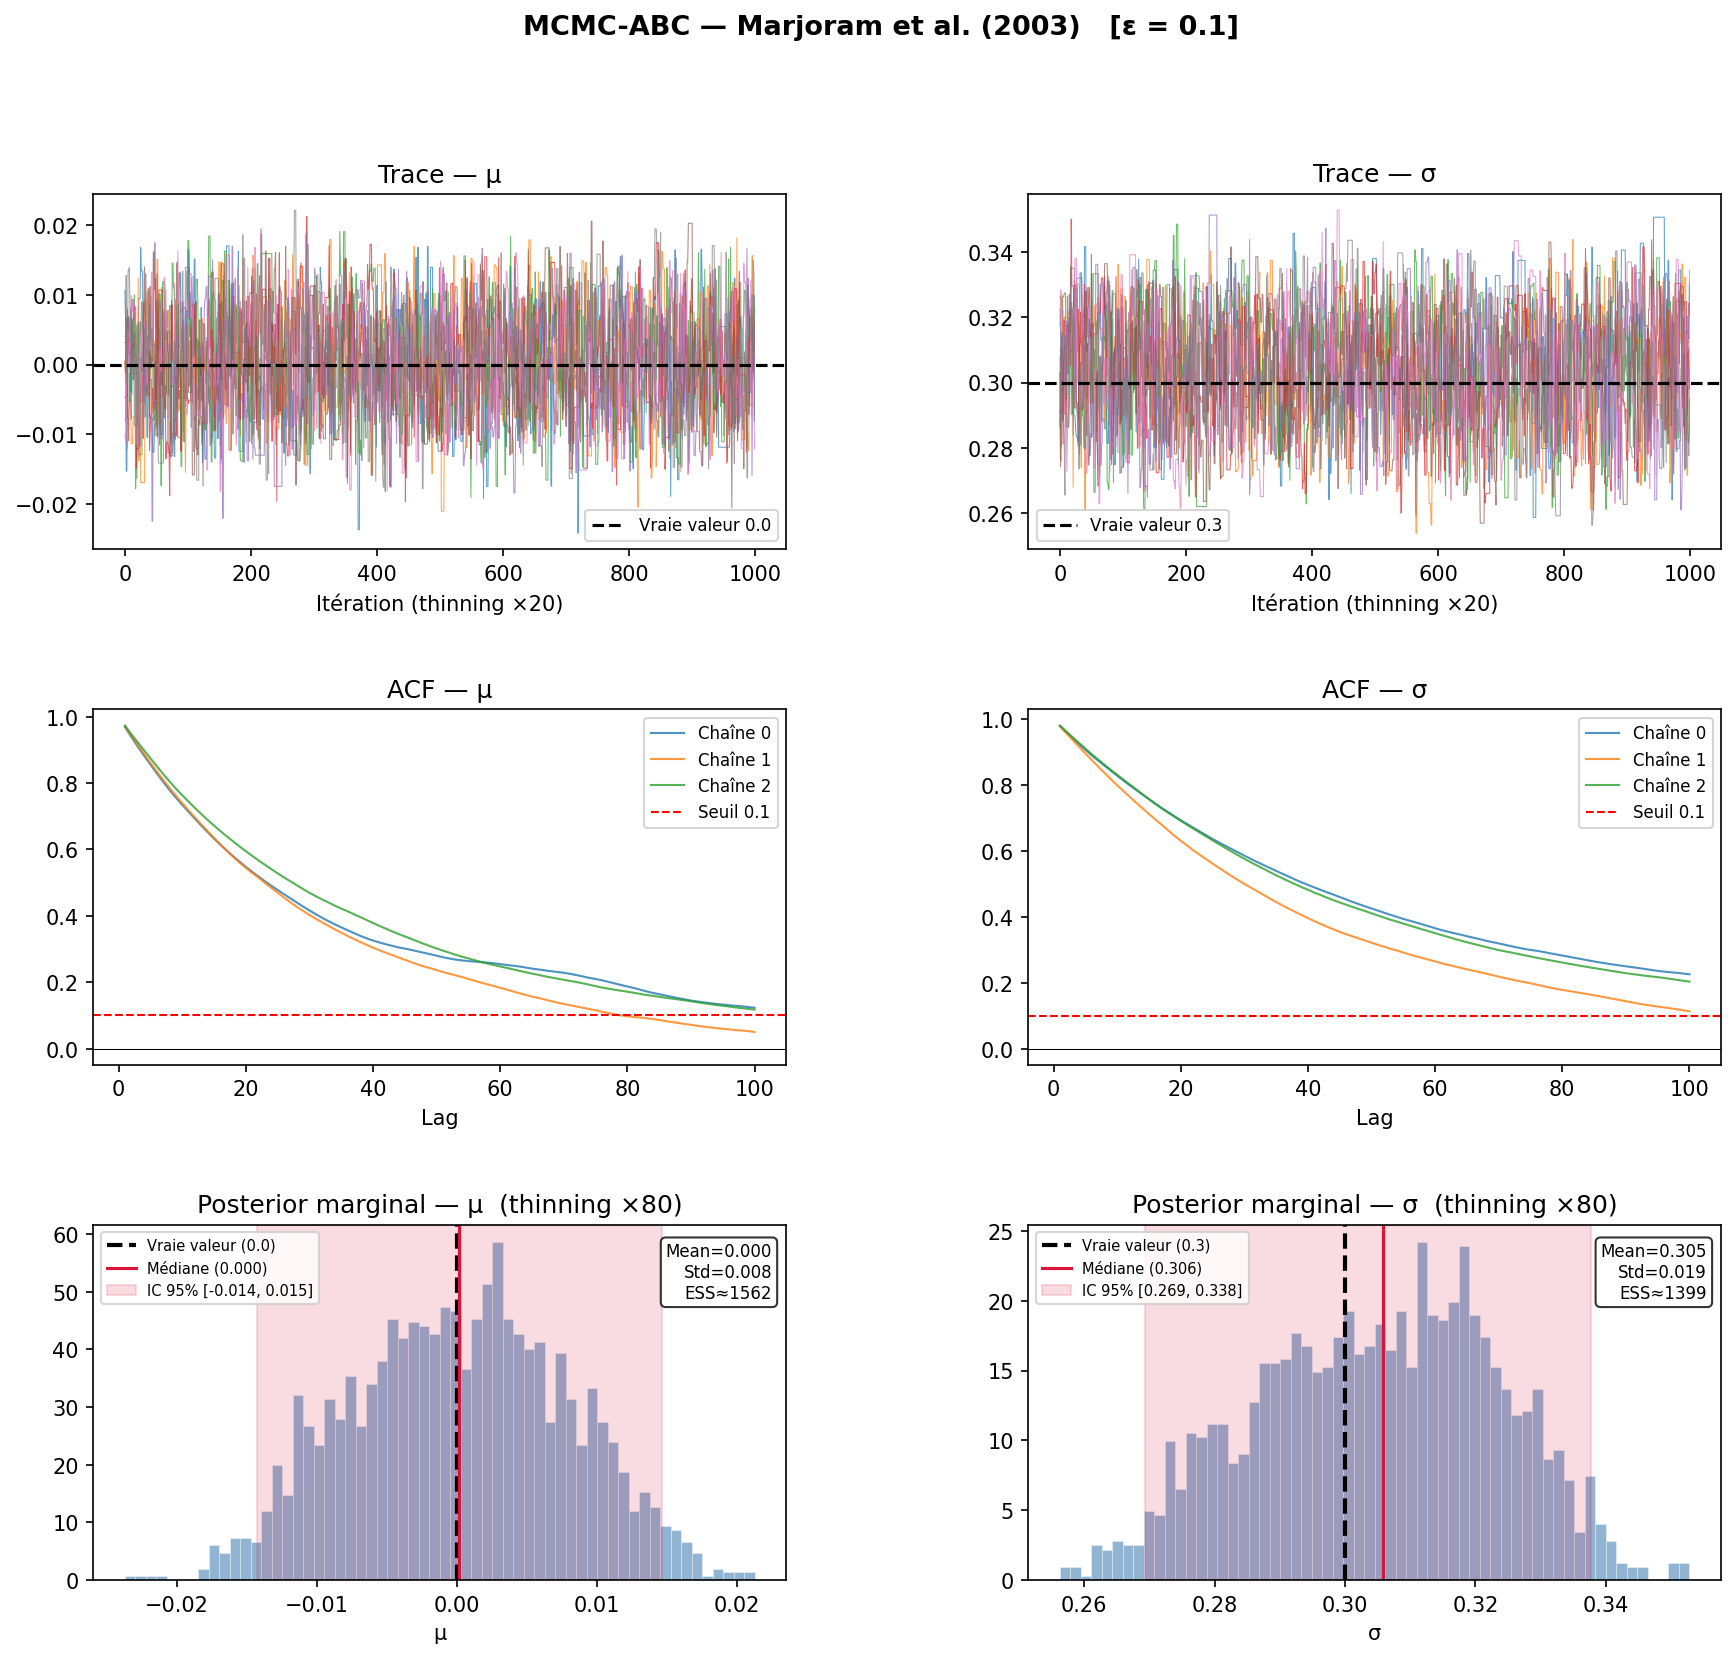
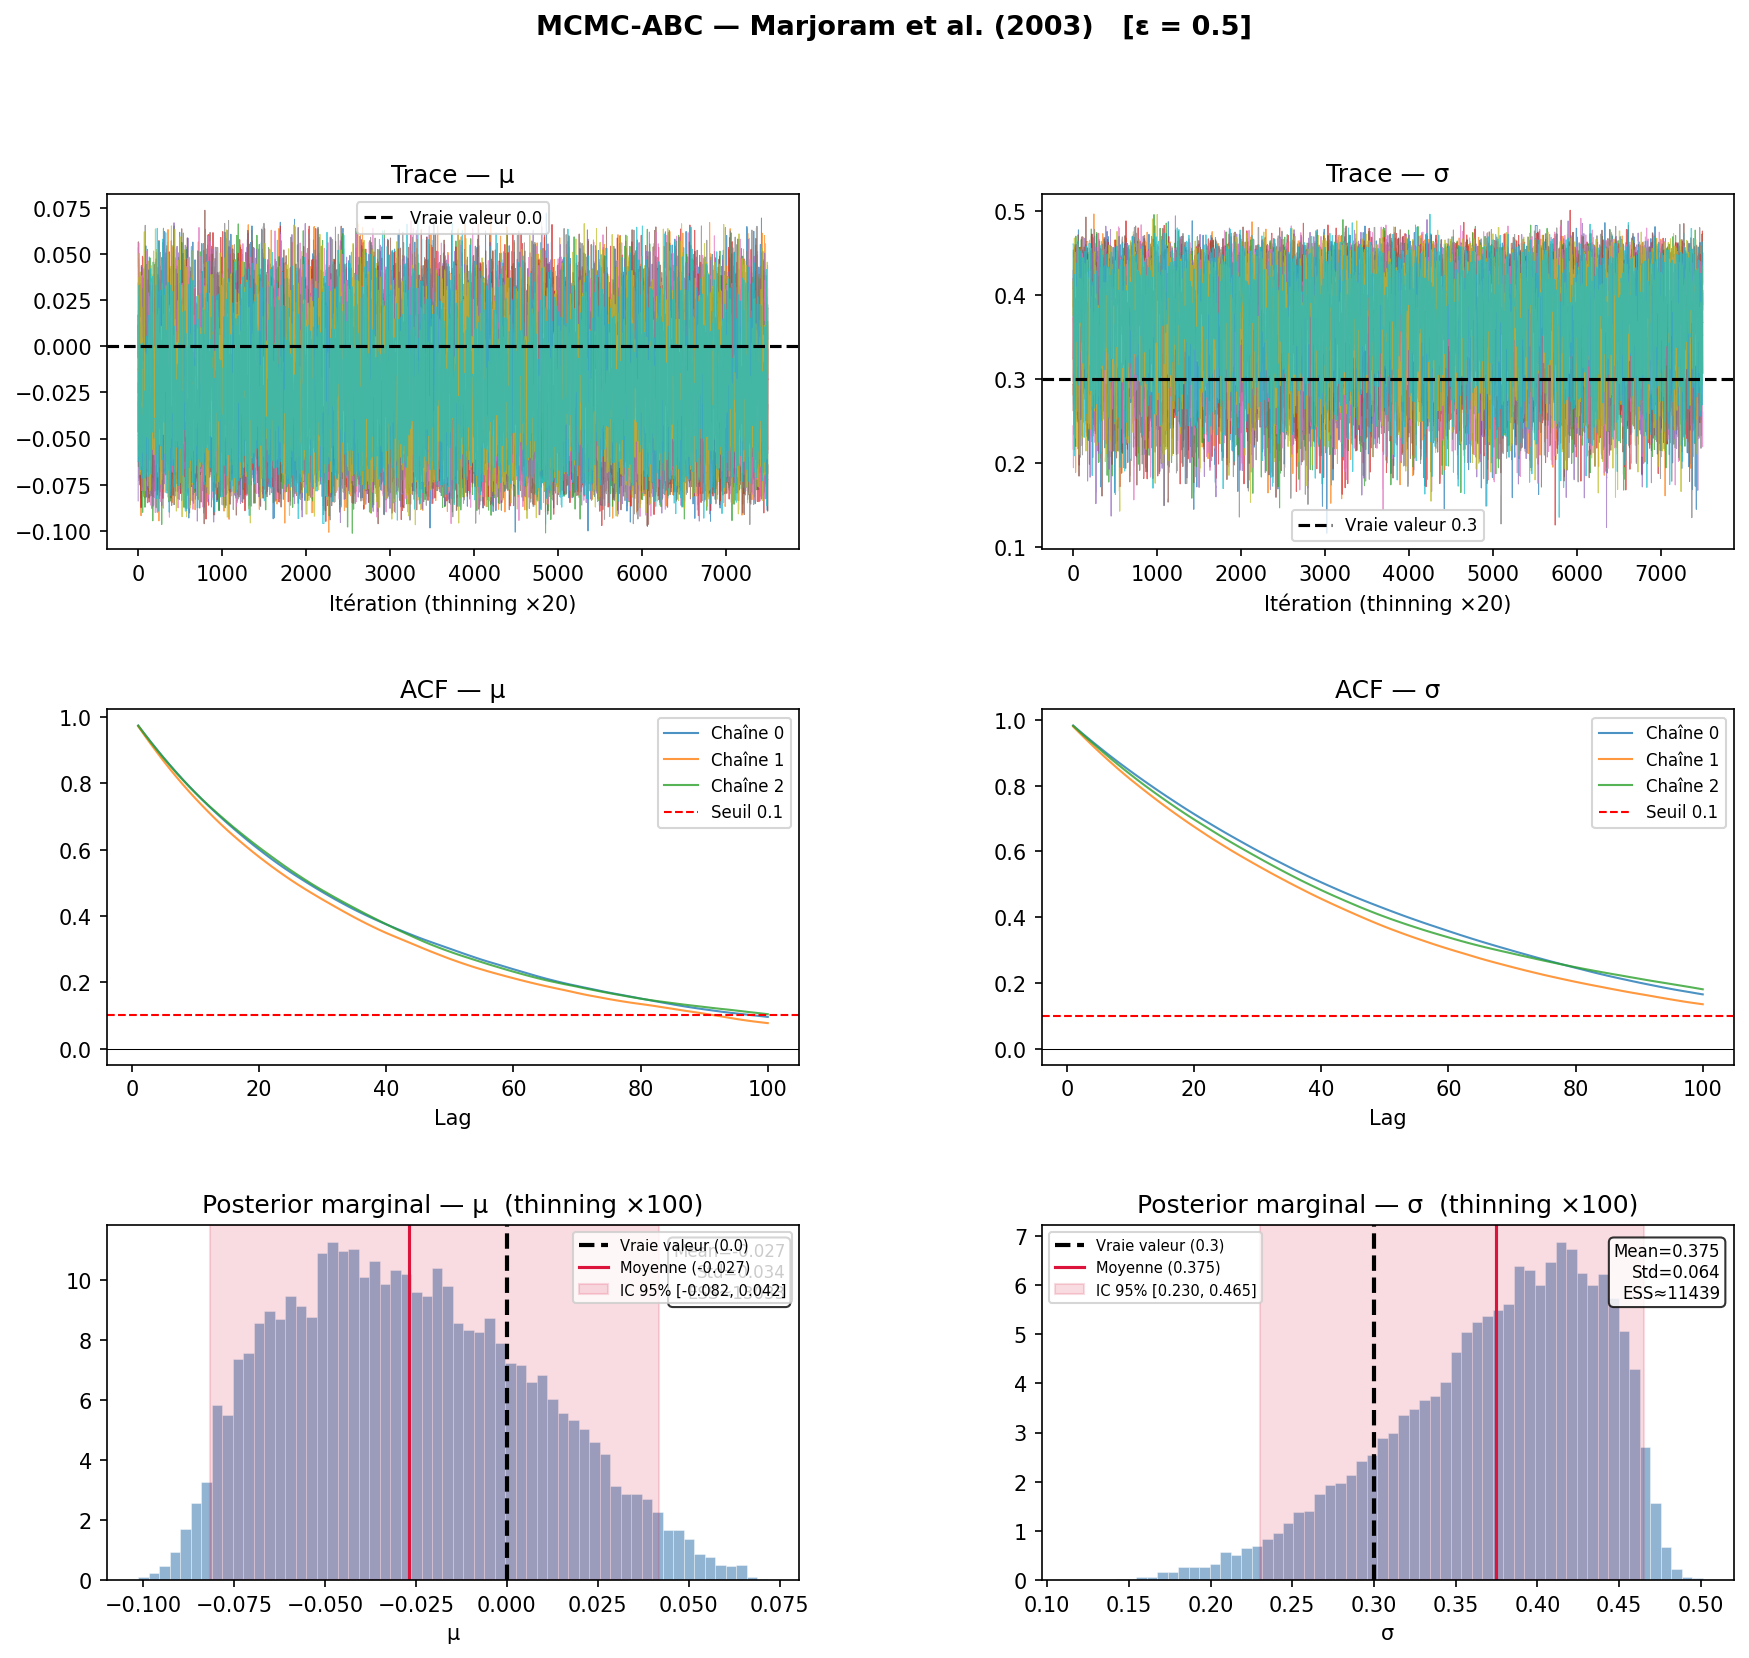
New Params MCMC-ABC

diff --git a/MCMC_ABCv2.py b/MCMC_ABCv2.py
@@ -21,13 +21,13 @@ S_PRIOR = 1.0
 T_PRIOR = 1.0
 
 # Chaîne MCMC
-N_CHAINS  = 4       # nombre de chaînes parallèles (vmappées)
-N_BURN    = 3_000   # longueur du burn-in
-N_ITER    = 15_000  # longueur post-burn-in
-K_THIN    = 80       # facteur de thinning pour les diagnostics
+N_CHAINS  = 5       # nombre de chaînes parallèles (vmappées)
+N_BURN    = 20_000   # longueur du burn-in
+N_ITER    = 100_000  # longueur post-burn-in
+K_THIN    = 100       # facteur de thinning
 
-EPSILON   = 1     # tolérance ABC (à calibrer via pilot run)
-DELTA      = 0.25   # std de la marche aléatoire sur mu et log(sigma)
+EPSILON   = 0.6     # tolérance ABC (à calibrer via pilot run)
+DELTA      = 0.3   # std de la marche aléatoire sur mu et log(sigma)
 
 # ─── 0. Génération des données "observées" ───────────────────────────────────
 
@@ -293,9 +293,10 @@ def plot_results(chains_post, acc_rates, epsilon, k_thin=K_THIN,
     ]:
         ax.hist(samples, bins=60, density=True, alpha=0.6,
                 color="steelblue", edgecolor="white", linewidth=0.3)
-        q025, q50, q975 = np.percentile(samples, [2.5, 50, 97.5])
+        q025, q975 = np.percentile(samples, [2.5, 97.5])
+        q_mean = np.mean(samples)
         ax.axvline(true,  color="black",  lw=2,   ls="--", label=f"Vraie valeur ({true})")
-        ax.axvline(q50,   color="crimson",lw=1.5,           label=f"Médiane ({q50:.3f})")
+        ax.axvline(q_mean, color="crimson", lw=1.5, label=f"Moyenne ({q_mean:.3f})")
         ax.axvspan(q025, q975, alpha=0.15, color="crimson",
                    label=f"IC 95% [{q025:.3f}, {q975:.3f}]")
         ax.set_title(f"Posterior marginal — {name}  (thinning ×{k_thin})")
@@ -383,7 +384,7 @@ if __name__ == "__main__":
     for eps in [0.5, 1.0, 1.5, 2.5]:
         print(f"  ε = {eps}...")
 
-        mcmc_fn = make_mcmc_abc(Y_OBS_sorted, eps)
+        mcmc_fn = make_mcmc_abc(Y_OBS_sorted, eps, DELTA)
 
         # Recherche d'un theta0
         key_run, key_init = jax.random.split(key_run)
@@ -391,7 +392,7 @@ if __name__ == "__main__":
 
         # Lancement des chaines
         key_run, key_chains = jax.random.split(key_run)
-        chains_eps, acc_eps = run_all_chains(mcmc_fn, key_chains, theta0_eps)
+        chains_eps, acc_eps = run_all_chains(mcmc_fn, key_chains, theta0_eps, eps, DELTA)
         print(f"     Taux d'acceptation moyen : {float(jnp.mean(acc_eps)):.3f}")
 
         # Thinning
